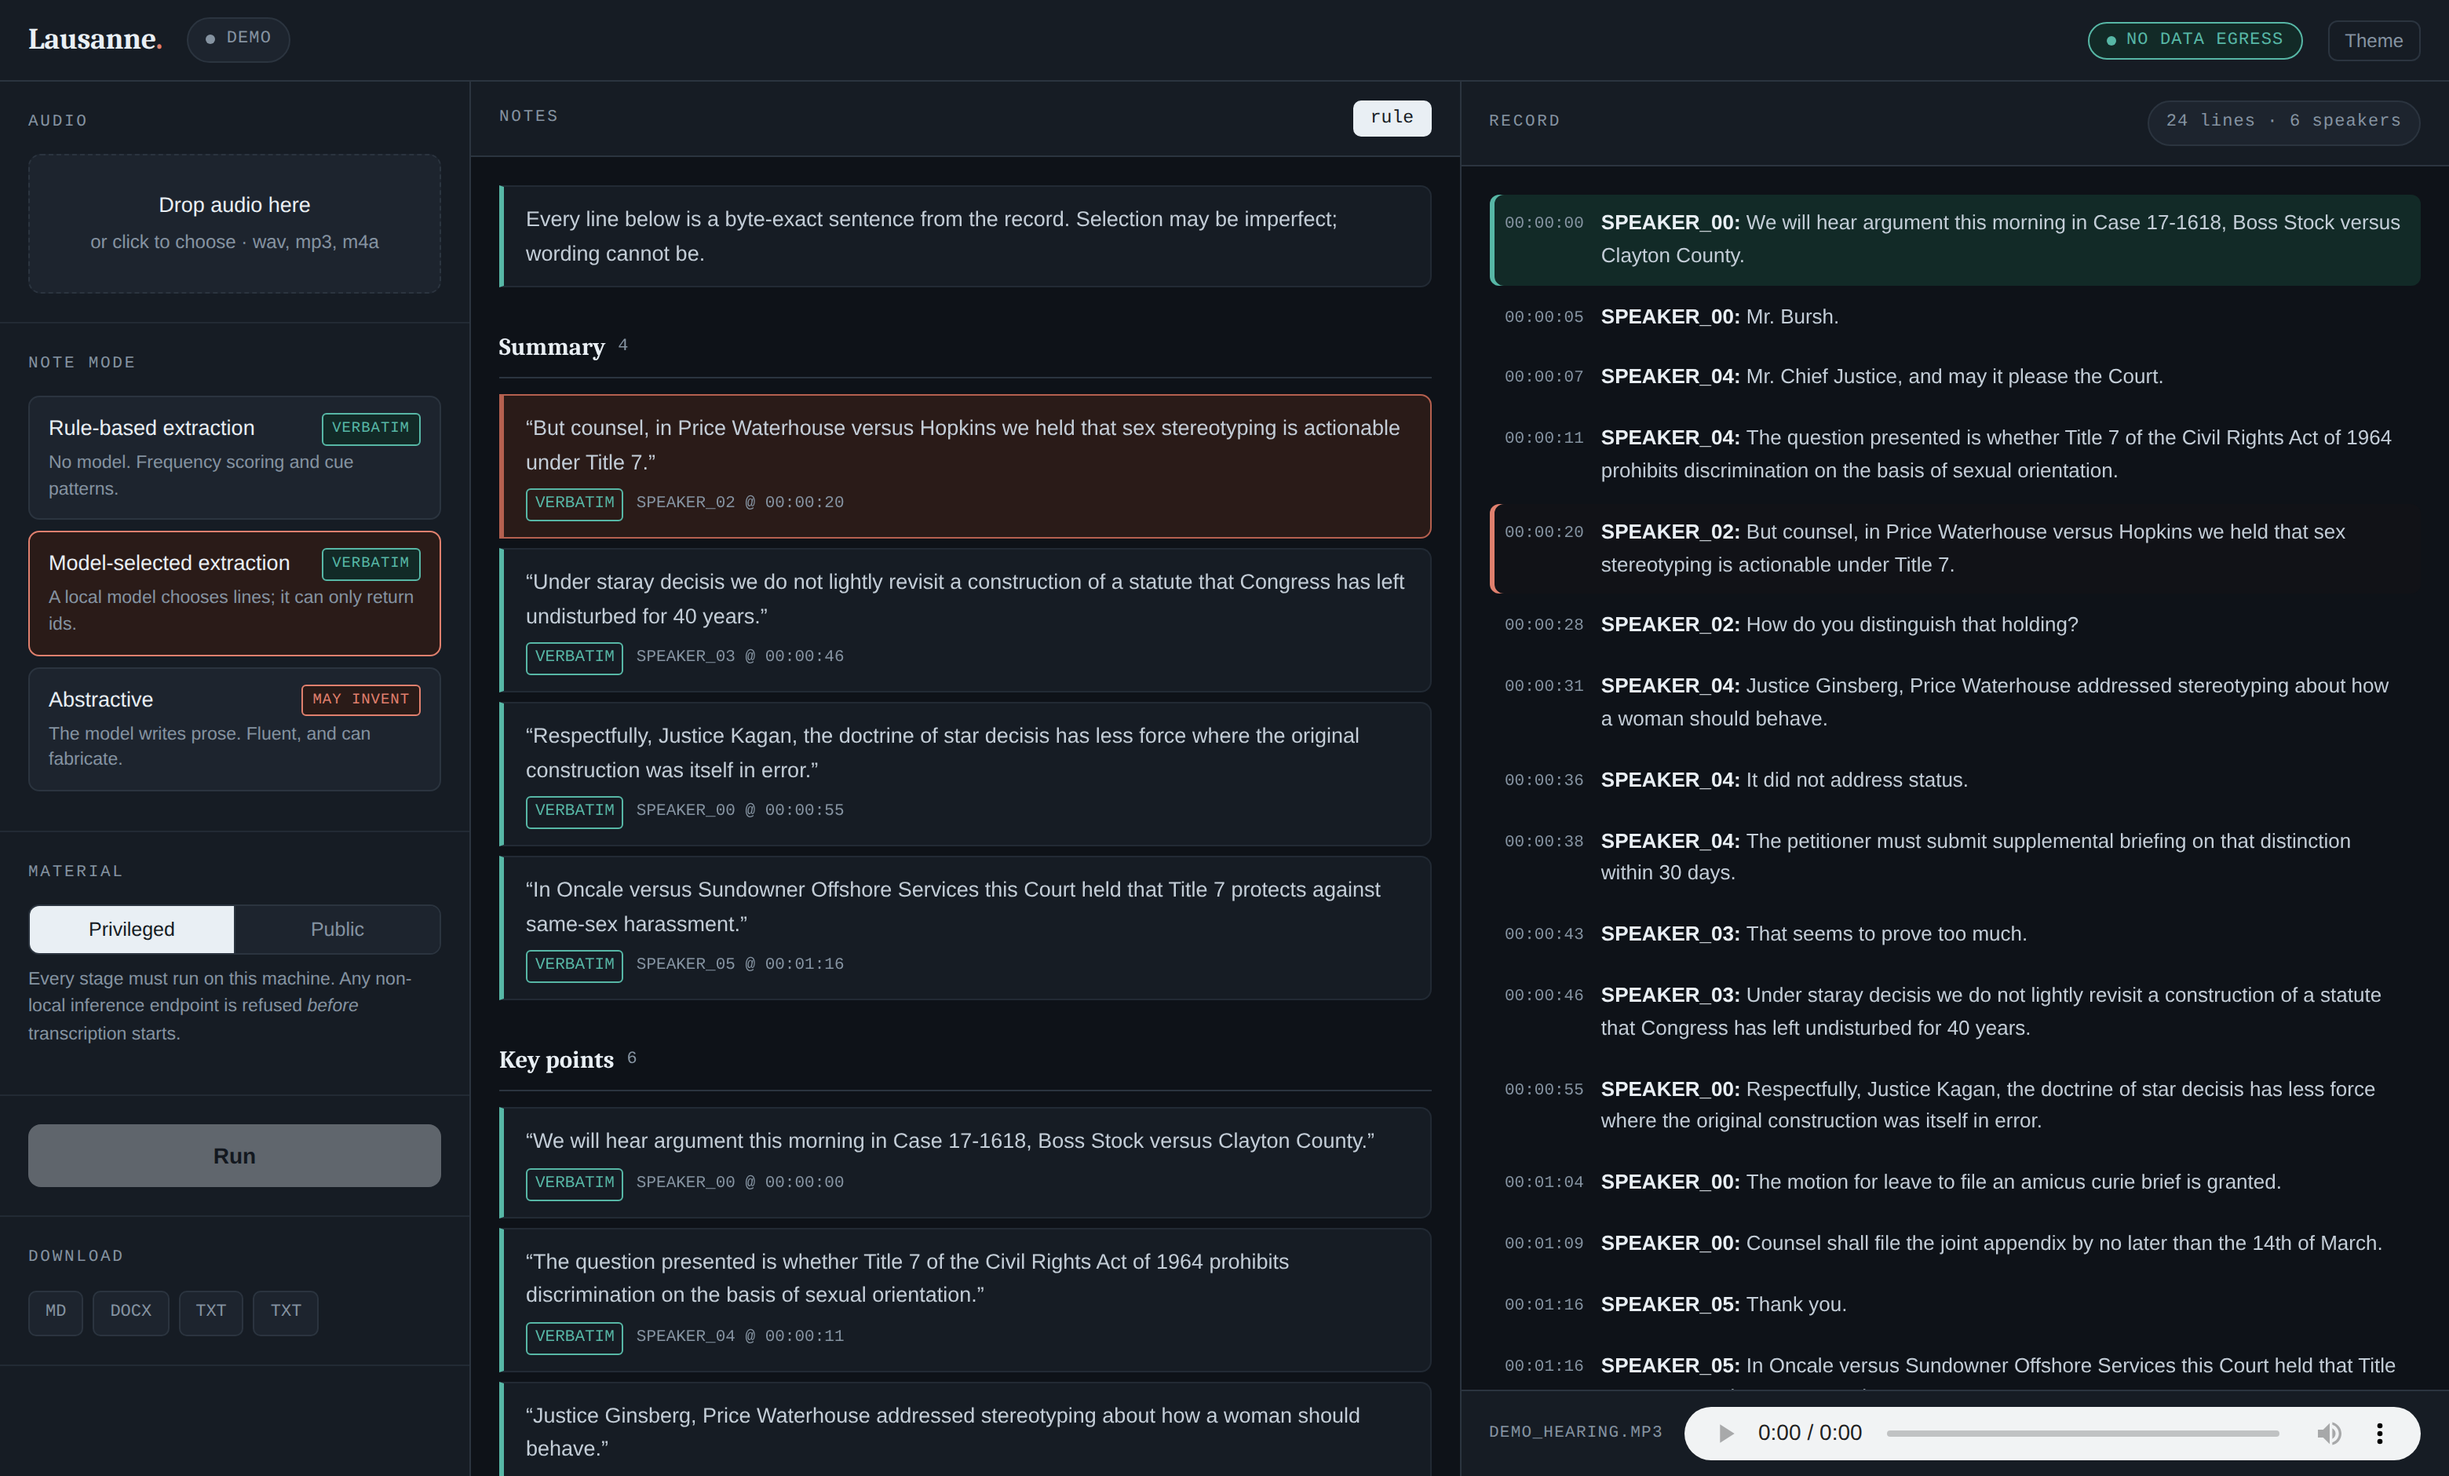
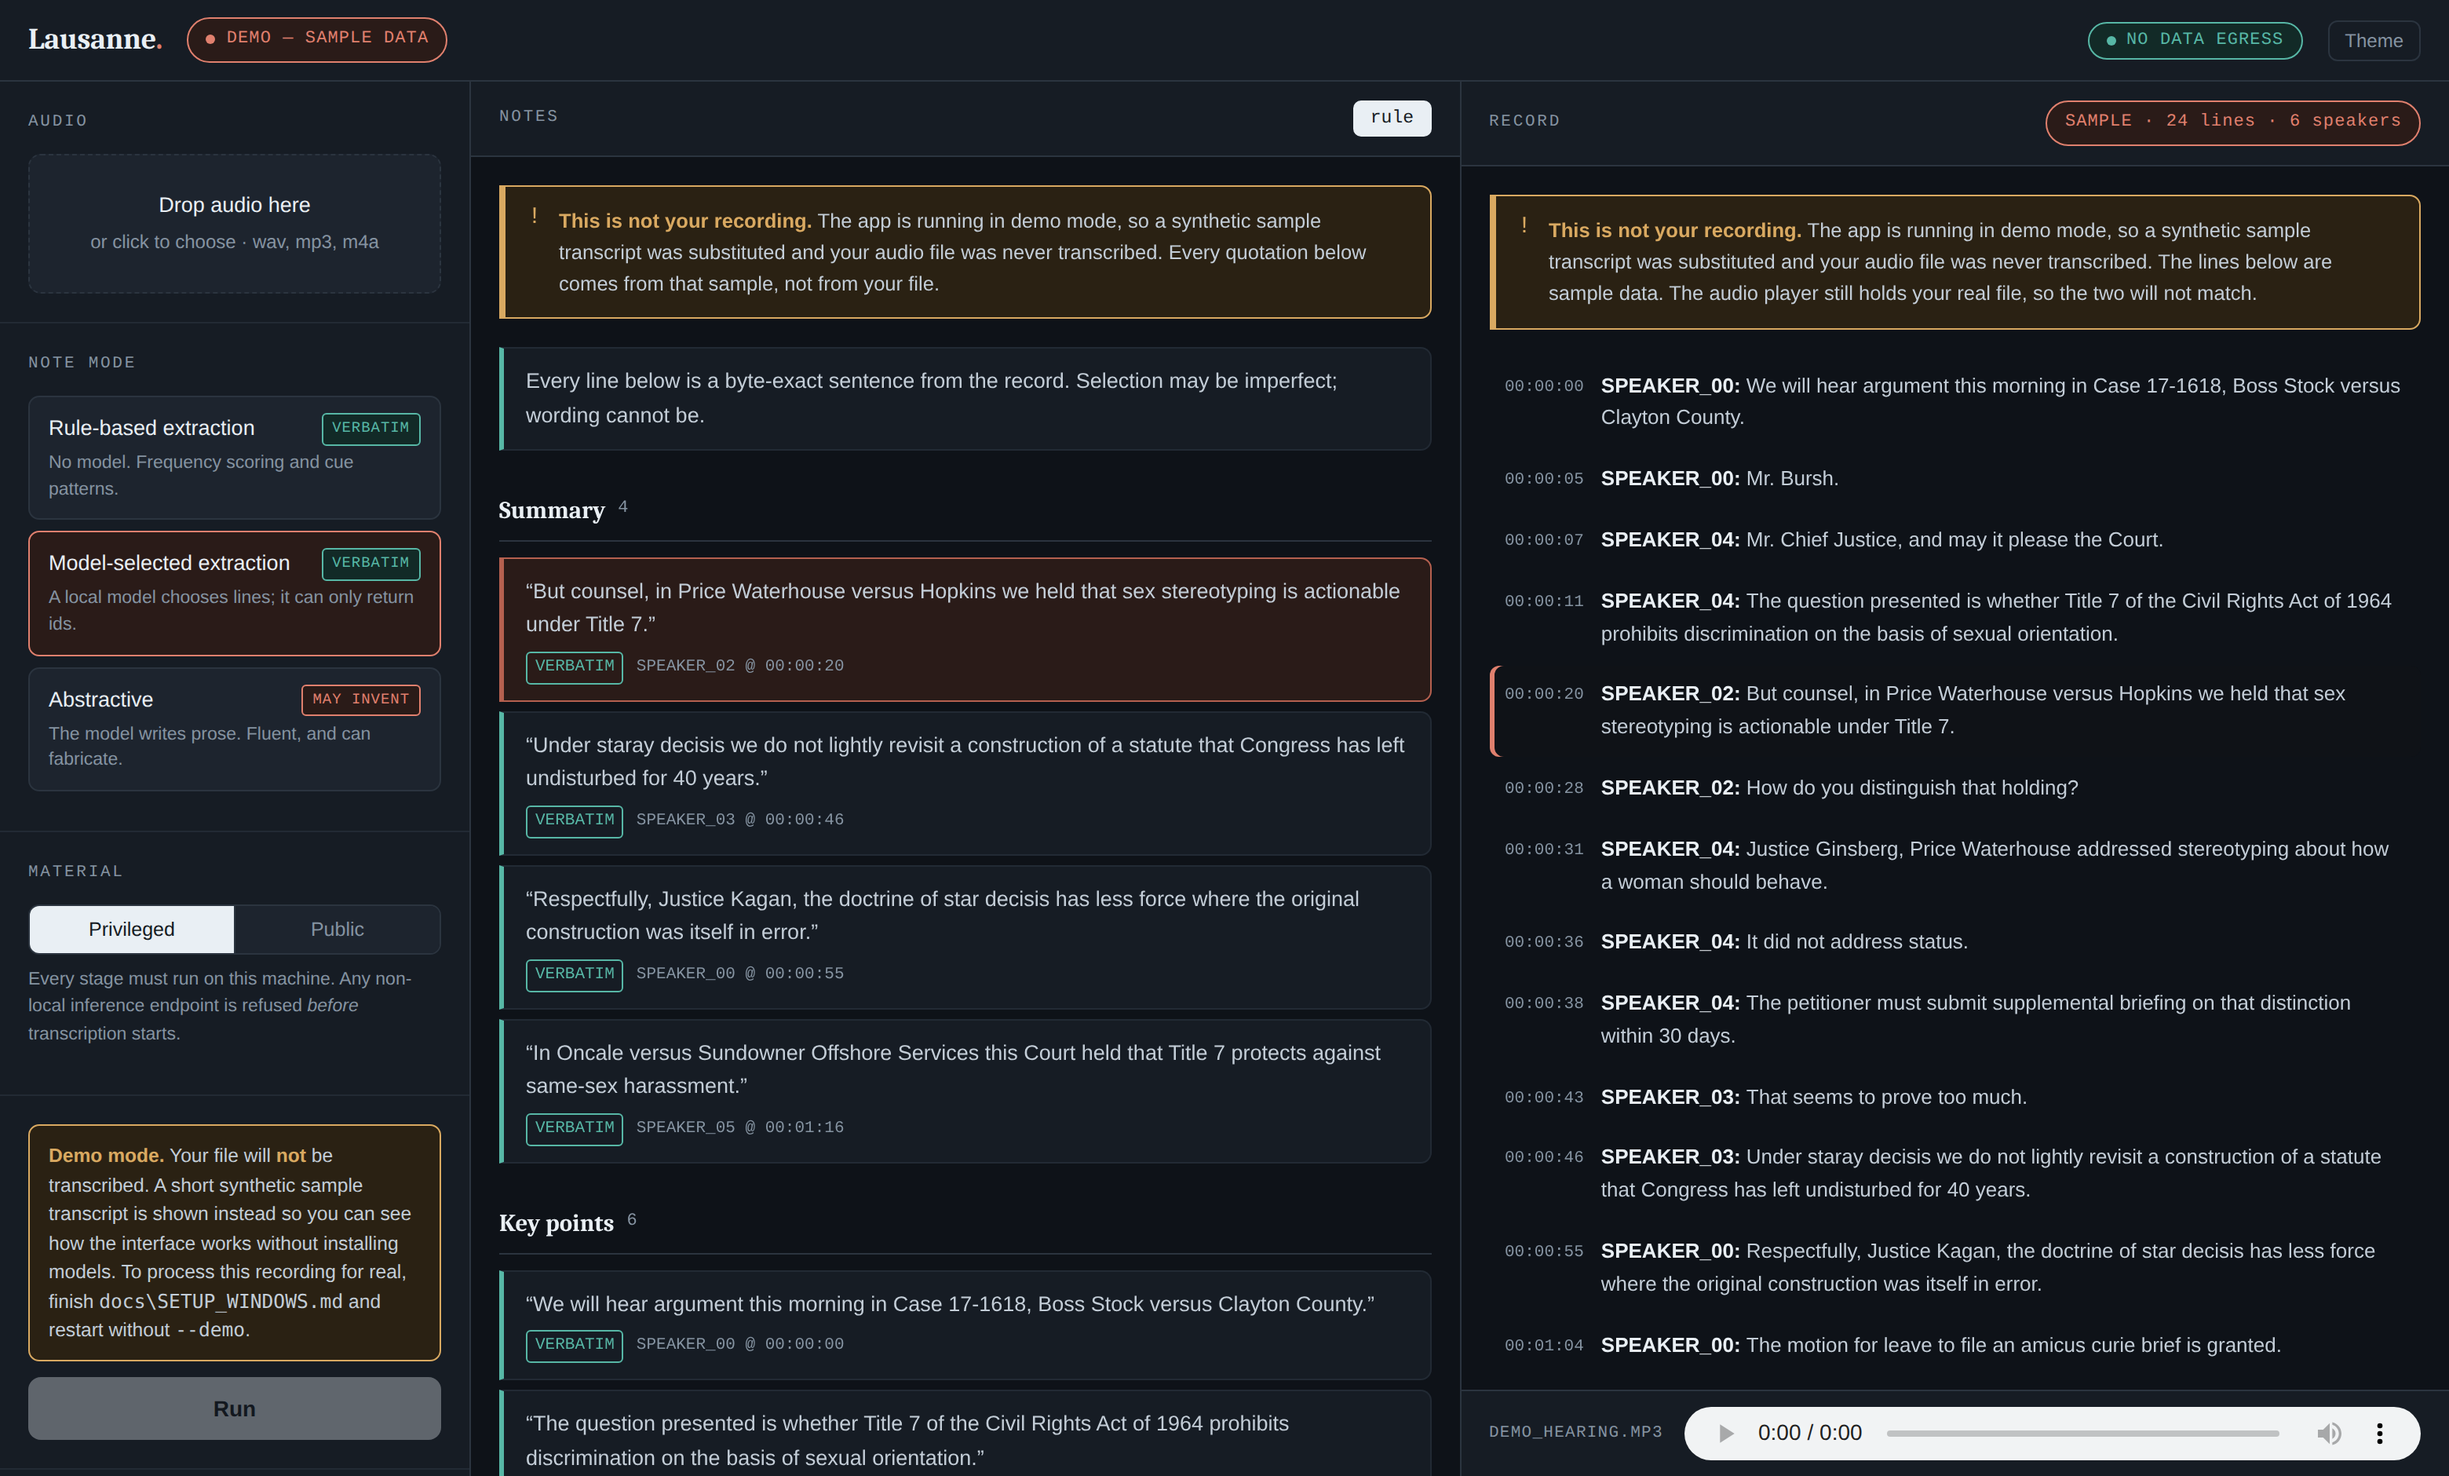
Interface and provenance refinements
Cloud-tagged models execute on a provider's servers while being reached at a
local URL, so endpoint locality alone is not sufficient to establish that
nothing left the host; the manifest classifies them as egress.

Claude-Session: https://claude.ai/code/session_01RrqjawcsqkUfkkDgWKje23

diff --git a/app/static/index.html b/app/static/index.html
@@ -214,6 +214,24 @@ main{flex:1;min-height:0;display:flex;}
 }
 .modetabs button.on{background:var(--ink);color:var(--surface);border-color:var(--ink);}
 
+.demobar{
+  display:flex;gap:11px;align-items:flex-start;
+  background:var(--warn-bg);border:1px solid var(--warn);
+  border-left:4px solid var(--warn);border-radius:0 7px 7px 0;
+  padding:12px 14px;margin-bottom:18px;
+}
+.demobar .ico{
+  font-family:var(--mono);font-size:15px;color:var(--warn);
+  line-height:1.1;flex:0 0 auto;
+}
+.demobar .txt{font-size:12.8px;line-height:1.55;color:var(--text);}
+.demobar b{color:var(--warn);}
+.warnrow{
+  background:var(--warn-bg);border:1px solid var(--warn);border-radius:7px;
+  padding:10px 12px;margin-bottom:10px;font-size:12.3px;line-height:1.5;
+  color:var(--text);
+}
+.warnrow b{color:var(--warn);}
 .empty{
   height:100%;display:grid;place-items:center;text-align:center;
   color:var(--muted);font-size:13.5px;padding:40px;
@@ -347,8 +365,8 @@ main{flex:1;min-height:0;display:flex;}
 
   <header class="bar">
     <div class="brand">Lausanne<span class="dot">.</span></div>
-    <span class="pill neutral" id="demoPill" hidden>
-      <span class="led"></span>DEMO
+    <span class="pill risk" id="demoPill" hidden title="Your audio is not being transcribed">
+      <span class="led"></span>DEMO &mdash; SAMPLE DATA
     </span>
     <div class="spacer"></div>
     <button class="pill ok" id="attestPill" hidden>
@@ -391,6 +409,14 @@ main{flex:1;min-height:0;display:flex;}
       </section>
 
       <section id="runSec">
+        <div class="warnrow" id="demoWarn" hidden>
+          <b>Demo mode.</b> Your file will <b>not</b> be transcribed. A short
+          synthetic sample transcript is shown instead so you can see how the
+          interface works without installing models.
+          To process this recording for real, finish
+          <code class="inl">docs\SETUP_WINDOWS.md</code> and restart without
+          <code class="inl">--demo</code>.
+        </div>
         <button class="go" id="go" disabled>Run</button>
       </section>
 
@@ -512,7 +538,10 @@ const bytes = n => n < 1024 ? n + " B"
 async function loadConfig() {
   const r = await fetch("/api/config");
   S.cfg = await r.json();
-  if (S.cfg.demo) $("#demoPill").hidden = false;
+  if (S.cfg.demo) {
+    $("#demoPill").hidden = false;
+    $("#demoWarn").hidden = false;
+  }
 
   const box = $("#modes");
   box.innerHTML = "";
@@ -676,8 +705,15 @@ function listen() {
       loadResult();
     } else if (s.status === "failed") {
       S.es.close(); resetRun();
-      toast(s.error || "Run failed", true);
-      if (s.error) $("#log").textContent = s.error;
+      // Toast the headline; put the whole message where it can be read.
+      const first = (s.error || "Run failed").split("\n")[0];
+      toast(first, true);
+      if (s.error) {
+        const box = $("#log");
+        box.textContent = s.error;
+        box.style.maxHeight = "260px";
+        box.scrollTop = 0;
+      }
     } else if (s.status === "cancelled") {
       S.es.close(); resetRun();
       toast("Cancelled");
@@ -716,9 +752,15 @@ function renderModeTabs(j) {
 
 function renderTranscript(j) {
   const box = $("#transcript"); box.innerHTML = "";
+  if (j.demo) {
+    box.appendChild(demoBar(
+      "The lines below are sample data. The audio player still holds your "
+      + "real file, so the two will not match."));
+  }
   $("#uttCount").hidden = false;
-  $("#uttCount").textContent = j.utterances.length + " lines · " +
-    j.speakers.length + " speakers";
+  $("#uttCount").textContent = (j.demo ? "SAMPLE · " : "") +
+    j.utterances.length + " lines · " + j.speakers.length + " speakers";
+  $("#uttCount").className = "pill " + (j.demo ? "risk" : "neutral");
 
   j.utterances.forEach(u => {
     const d = el("div","utt");
@@ -741,9 +783,25 @@ const SECTIONS = [
   ["decisions","Decisions and rulings"], ["action_items","Obligations"]
 ];
 
+function demoBar(where) {
+  const d = el("div","demobar");
+  d.appendChild(el("div","ico","!"));
+  const t = el("div","txt");
+  t.innerHTML = "<b>This is not your recording.</b> The app is running in "
+    + "demo mode, so a synthetic sample transcript was substituted and your "
+    + "audio file was never transcribed. " + where;
+  d.appendChild(t);
+  return d;
+}
+
 function renderNotes(j) {
   const box = $("#notes"); box.innerHTML = "";
   const n = j.notes;
+
+  if (j.demo) {
+    box.appendChild(demoBar(
+      "Every quotation below comes from that sample, not from your file."));
+  }
 
   const banner = el("div","nsec");
   const isVerbatim = n.mode !== "abstractive";

diff --git a/src/util/provenance.py b/src/util/provenance.py
@@ -65,6 +65,25 @@ class TierViolation(RuntimeError):
 
 _LOOPBACK_NAMES = {"localhost", "127.0.0.1", "::1", "0.0.0.0", "[::1]"}
 
+# Ollama can serve models that execute on Ollama's infrastructure rather than
+# on this machine. They are requested through the ordinary local endpoint, so
+# the URL looks like loopback while the prompt travels to a third party.
+#
+# This is the most dangerous shape a confidentiality bug can take: the
+# attestation would truthfully report a loopback endpoint and thereby report
+# "no data egress" about a run that egressed everything. Endpoint locality is
+# therefore necessary but not sufficient - the model identity has to be checked
+# too.
+_CLOUD_MODEL_MARKERS = (":cloud", "-cloud", "/cloud")
+
+
+def is_cloud_model(model: Optional[str]) -> bool:
+    """True when a model name denotes remote execution despite a local URL."""
+    if not model:
+        return False
+    name = model.strip().lower()
+    return any(marker in name for marker in _CLOUD_MODEL_MARKERS)
+
 
 def is_local_endpoint(host_or_url: str) -> bool:
     """
@@ -179,7 +198,8 @@ def record_stage(
     artifact: Optional[str] = None,
 ) -> None:
     """Append a stage record, hashing its artefact and classifying its endpoint."""
-    local = is_local_endpoint(endpoint)
+    # A cloud-hosted model makes the stage remote no matter how local the URL is.
+    local = is_local_endpoint(endpoint) and not is_cloud_model(model)
     manifest.stages.append(
         StageRecord(
             stage=stage,
@@ -193,9 +213,14 @@ def record_stage(
             artifact_sha256=sha256_file(artifact) if artifact else None,
         )
     )
-    if endpoint and not local and endpoint not in manifest.data_egress:
-        # This stage sent user content to a non-loopback endpoint.
-        manifest.data_egress.append(endpoint)
+    if not local:
+        # This stage sent user content off this machine, either to a
+        # non-loopback endpoint or through a cloud-hosted model.
+        label = endpoint or "(local endpoint)"
+        if is_cloud_model(model):
+            label = f"{label} via cloud model {model!r}"
+        if label not in manifest.data_egress:
+            manifest.data_egress.append(label)
 
 
 def record_asset_fetch(manifest: RunManifest, endpoint: str) -> None:
@@ -267,18 +292,36 @@ def attest(manifest: RunManifest) -> RunManifest:
     return manifest
 
 
-def guard_tier(material_class: str, tier_name: str, endpoint: str) -> None:
+def guard_tier(material_class: str, tier_name: str, endpoint: str,
+               model: Optional[str] = None) -> None:
     """
     Refuse, before any inference happens, to send privileged material off-host.
 
     DP1 states tier segregation as a design property. Stating it in
     documentation makes it a convention that a hurried user violates at 2am.
     Enforcing it at the point of execution makes it a property of the artefact.
+
+    Two independent ways a run can leave the machine, and the second is the one
+    that looks safe: a remote endpoint, or a cloud-hosted model reached through
+    a local one.
     """
     if material_class != PRIVILEGED:
         return
+
+    if is_cloud_model(model):
+        raise TierViolation(
+            f"Refusing to run model {model!r}.\n"
+            f"Despite being reached at {endpoint or 'a local endpoint'}, a "
+            f"cloud-tagged model executes on the provider's infrastructure, so "
+            f"your transcript would be sent to a third party. The local URL "
+            f"makes this look safe; it is not.\n\n"
+            f"Use a locally-executing model, or re-run with --material public "
+            f"if this recording is genuinely publishable."
+        )
+
     if is_local_endpoint(endpoint):
         return
+
     raise TierViolation(
         f"Refusing to run tier {tier_name!r} against endpoint {endpoint!r}.\n"
         f"This run is classified as PRIVILEGED, and that endpoint is not on "

diff --git a/app/server.py b/app/server.py
@@ -219,7 +219,7 @@ class Runner:
             # UI must not become a way around the guard.
             tier = self.cfg.tier(job.tier)
             if job.mode != "extractive-rule":
-                prov.guard_tier(job.material, job.tier, tier.host)
+                prov.guard_tier(job.material, job.tier, tier.host, tier.model)
 
             work = run_dir(self.cfg.work_dir, job.audio)
             job.work = work
@@ -284,11 +284,19 @@ class Runner:
             text=True, bufsize=1,
         )
         ticks = 0
+        tail: List[str] = []
         for line in proc.stdout:
             if job.cancelled:
                 proc.terminate()
                 return False
             job.log_line(line)
+            # Keep the end of the stage's output. "exit 1" on its own tells the
+            # user nothing; the cause is always in the last few lines, and
+            # making them dig through a log pane for it is a failure of the
+            # interface, not of their patience.
+            tail.append(line.rstrip())
+            if len(tail) > 12:
+                tail.pop(0)
             # No stage reports true percentage, so creep toward the next
             # boundary on output rather than inventing a fake number.
             ticks += 1
@@ -296,7 +304,14 @@ class Runner:
                                  base + span * (1 - 0.985 ** ticks)))
         proc.wait()
         if proc.returncode != 0:
-            raise RuntimeError(f"stage {name} failed (exit {proc.returncode})")
+            detail = "\n".join(
+                t for t in tail
+                if t.strip() and not t.strip().startswith("Traceback")
+            )
+            raise RuntimeError(
+                f"The {label.lower()} stage failed (exit {proc.returncode}).\n\n"
+                f"{detail or '(no output captured)'}"
+            )
         job.set(progress=base + span)
         return True
 
@@ -608,6 +623,9 @@ class Handler(BaseHTTPRequestHandler):
         self._json({
             "run": job.work.name,
             "mode": mode,
+            # The interface must be able to state, unmissably, that the
+            # transcript on screen did not come from the user's file.
+            "demo": self.runner.demo,
             "available_modes": available,
             "audio_name": job.audio.name,
             "duration": merged.audio_duration,
